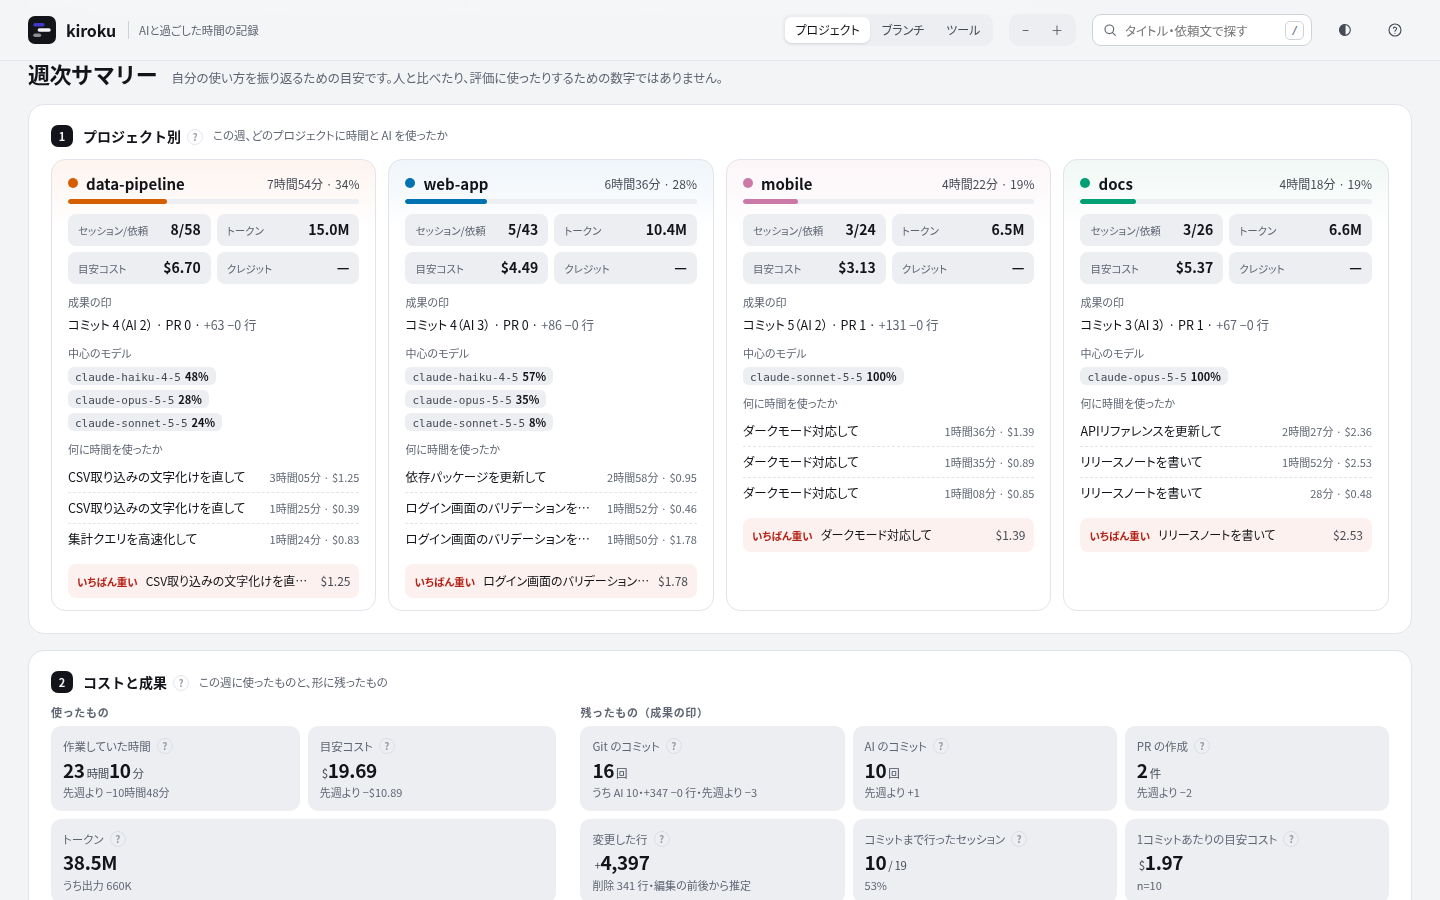
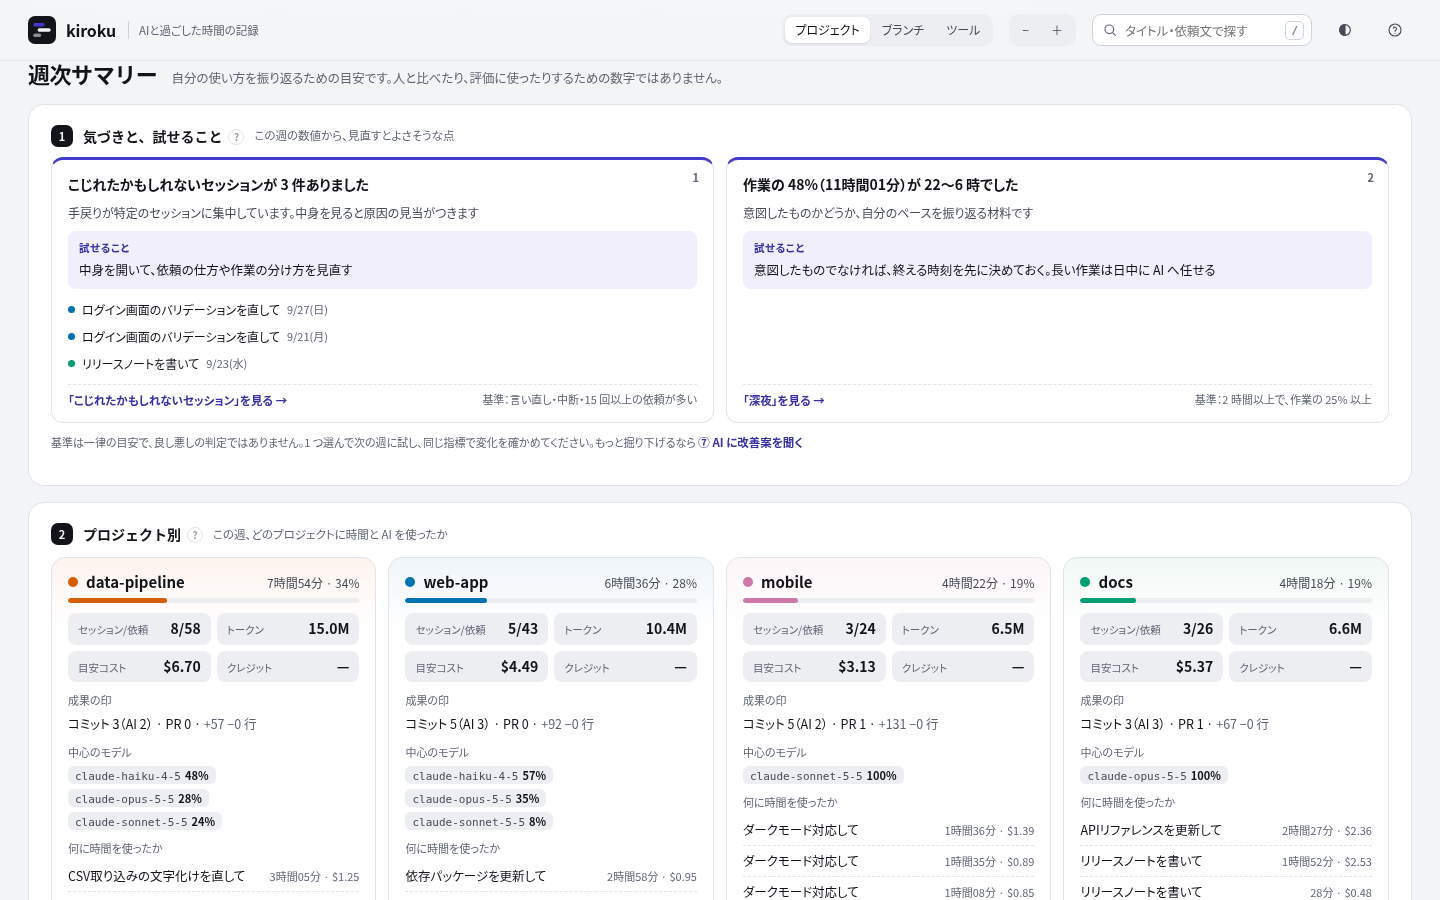
サマリーの先頭に「気づきと、試せること」を置き、次の行動につなげる
- 基準を超えた指標を、見えたこと・理由・試せること・該当セッション・基準の形で優先度順に 3 件まで表示（残りは折りたたみ）
- 「〜を見る」で元の指標へ移動し、説明を開く
- 改善案プロンプトにも気づきを含める
- パネル番号を ①〜⑦ に振り直し、ガイド・README・スクリーンショットを更新

Claude-Session: https://claude.ai/code/session_01WXnCm54bK3Mj4QdxNoNc9j

diff --git a/docs/guide.md b/docs/guide.md
@@ -54,7 +54,7 @@ go install github.com/MichinaoShimizu/kiroku@latest
   - セッションの「変更したファイル」：そのセッションの間のコミットで変わったファイルなら、そのコミットでのファイルのページを開きます
   - セッションの「作った PR」：AI が作った PR（`gh pr create` や GitHub のツールの結果に出た URL）を開きます
   - セッションの「履歴ファイル」：そのセッションの元の履歴を開きます。`kiroku serve` では画面から（読み込んだセッションの履歴ファイルだけを、手元の画面にだけ返します）、`kiroku html` では `file://` で開きます。SQLite の履歴は開けないので、パスのコピーだけです
-- カレンダーの下に、週次・月次サマリーを表示します。① プロジェクト別のカードでは、プロジェクトごとに「どのセッションに何時間、どれだけのトークン・目安コスト・クレジットを、どのモデルを中心に使い、どれが最も重かったか」と成果の印を示します。② コストと成果では、使ったもの（作業時間・目安コスト・トークン・クレジット）と残ったもの（コミット・PR・変更した行など）を並べます。続いて ③ 時間の使い方 ④ AI の使い方 ⑤ 週 / 月のかたち、最後に ⑥ AI に改善案を聞く が表示されます
+- カレンダーの下に、週次・月次サマリーを表示します。いちばん上の ① 気づきと、試せること では、基準を超えた指標を「見えたこと・試せること・該当するセッション・基準」の形で優先度の高い順に 3 件まで示します。「〜を見る」を押すと元の指標へ移動し、説明を開きます。② プロジェクト別のカードでは、プロジェクトごとに「どのセッションに何時間、どれだけのトークン・目安コスト・クレジットを、どのモデルを中心に使い、どれが最も重かったか」と成果の印を示します。③ コストと成果では、使ったもの（作業時間・目安コスト・トークン・クレジット）と残ったもの（コミット・PR・変更した行など）を並べます。続いて ④ 時間の使い方 ⑤ AI の使い方 ⑥ 週 / 月のかたち、最後に ⑦ AI に改善案を聞く が表示されます
 - 各指標の「?」を押すと、定義と、そこから言えること・言えないこと・打てる手を表示します
 - 「AI に改善案を聞く」には、表示中の週・月の集計をもとに、使い方の改善案を AI に聞くためのプロンプトを表示します。「プロンプトをコピー」でコピーし、お使いの AI エージェントに貼り付けて使います（kiroku 自身は AI を呼び出しません）。セッション名（依頼文の一部）とプロジェクト名を含むため、送る前に内容を確認してください
 - キーボード操作：`←` `→` で週・月を移動、`T` で今週・今月、`W` `M` で週・月を切り替え、`/` で検索、`+` `−` でズーム、`Esc` で詳細を閉じる、`?` で一覧を表示
@@ -68,6 +68,7 @@ go install github.com/MichinaoShimizu/kiroku@latest
 
 | 指標 | 定義 |
 |---|---|
+| 気づきと、試せること | 次の基準を超えた指標を、優先度の高い順に表示します。目安コスト $1 以上でコミットも PR もない Claude Code のセッションが、期間の目安コスト（$2 以上）の 40% 以上／目安コストが前の期間の 1.5 倍以上／1 コミットあたりの目安コストが前の期間の 1.5 倍以上（コミット 3 回以上）／言い直し・中断のあった依頼が 20% 以上（依頼 10 件以上）、またはこじれたかもしれないセッションがある／キャッシュから読んだ割合が 50% 未満（トークン 1M 以上）／コミットまで行ったセッションが 25% 未満（セッション 5 件以上）／1 日の切り替えが平均 5 回以上／作業 4 時間以上で集中ブロックが 0 回／待たせ時間の 90 パーセンタイルが 15 分以上（n≥10）／深夜が 2 時間以上かつ作業の 25% 以上 |
 | プロジェクト別 | プロジェクトごとの作業時間と割合、セッション / 依頼の数、トークン・目安コスト・クレジット、中心のモデル（トークンの割合。トークンを記録しないエージェントは回数）、稼働時間の長いセッション上位 3 件、最も重いセッション（目安コスト、なければクレジット、なければトークンで判定）。複数のプロジェクトが同時に稼働していた時間は按分します |
 | 作業していた時間 | いずれかのセッションが稼働していた時間（重なりは 1 回として計算） |
 | AI の延べ稼働 | 並列で稼働した分も合算した時間 |
@@ -143,6 +144,7 @@ kiroku serve --prices my-prices.json
 
 | 指標 | 言えること | 言えないこと | 打てる手 |
 |---|---|---|---|
+| 気づきと、試せること | どの指標から見直すとよさそうか | 良し悪しの判定。基準は一律の目安で、使い方によっては当てはまらない | 1 つ選んで次の期間に試し、同じ指標で変化を確かめる |
 | プロジェクト別 | 時間と AI をどのプロジェクトに配分したか | プロジェクトの重要度や成果 | 想定と配分がずれていれば、使い方や優先順位を見直す |
 | 作業していた時間 | AI と一緒に作業していた時間の総量 | 人が集中していたか。放置していた時間も含む | 前の期間との増減で、AI に頼る割合の変化をつかむ |
 | AI の延べ稼働 | AI をどれだけ働かせたか。作業していた時間との差は並列の度合い | 人が削減できた時間や生産性 | 作業していた時間とほぼ同じなら、待ち時間に別の作業を並行させる余地がある |
